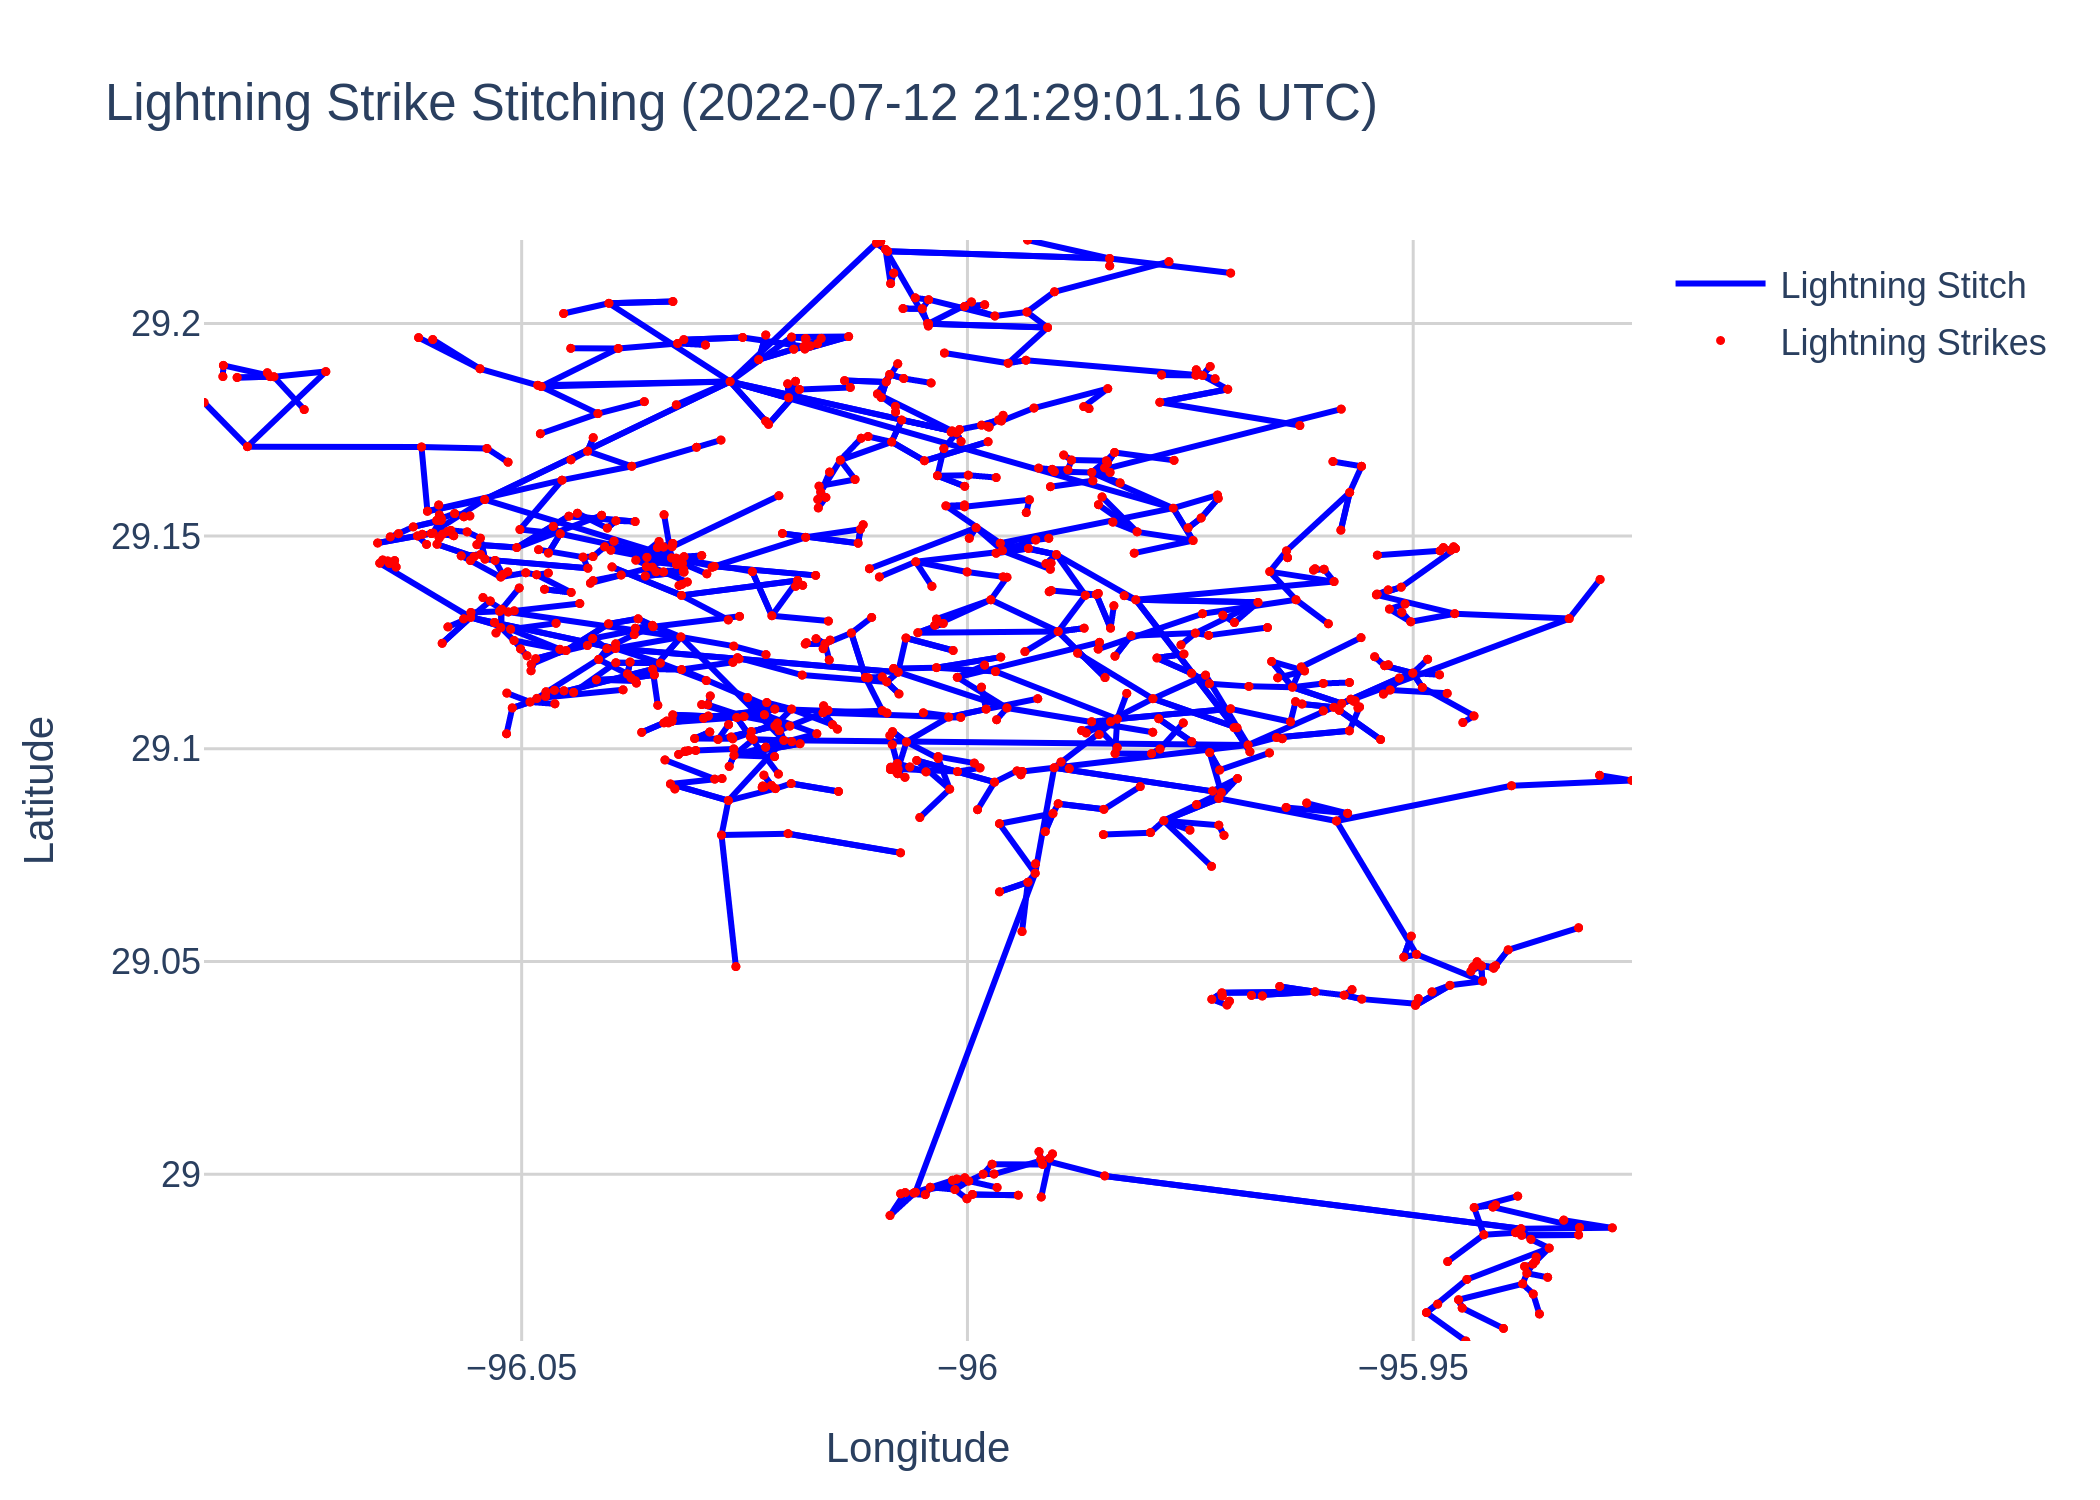
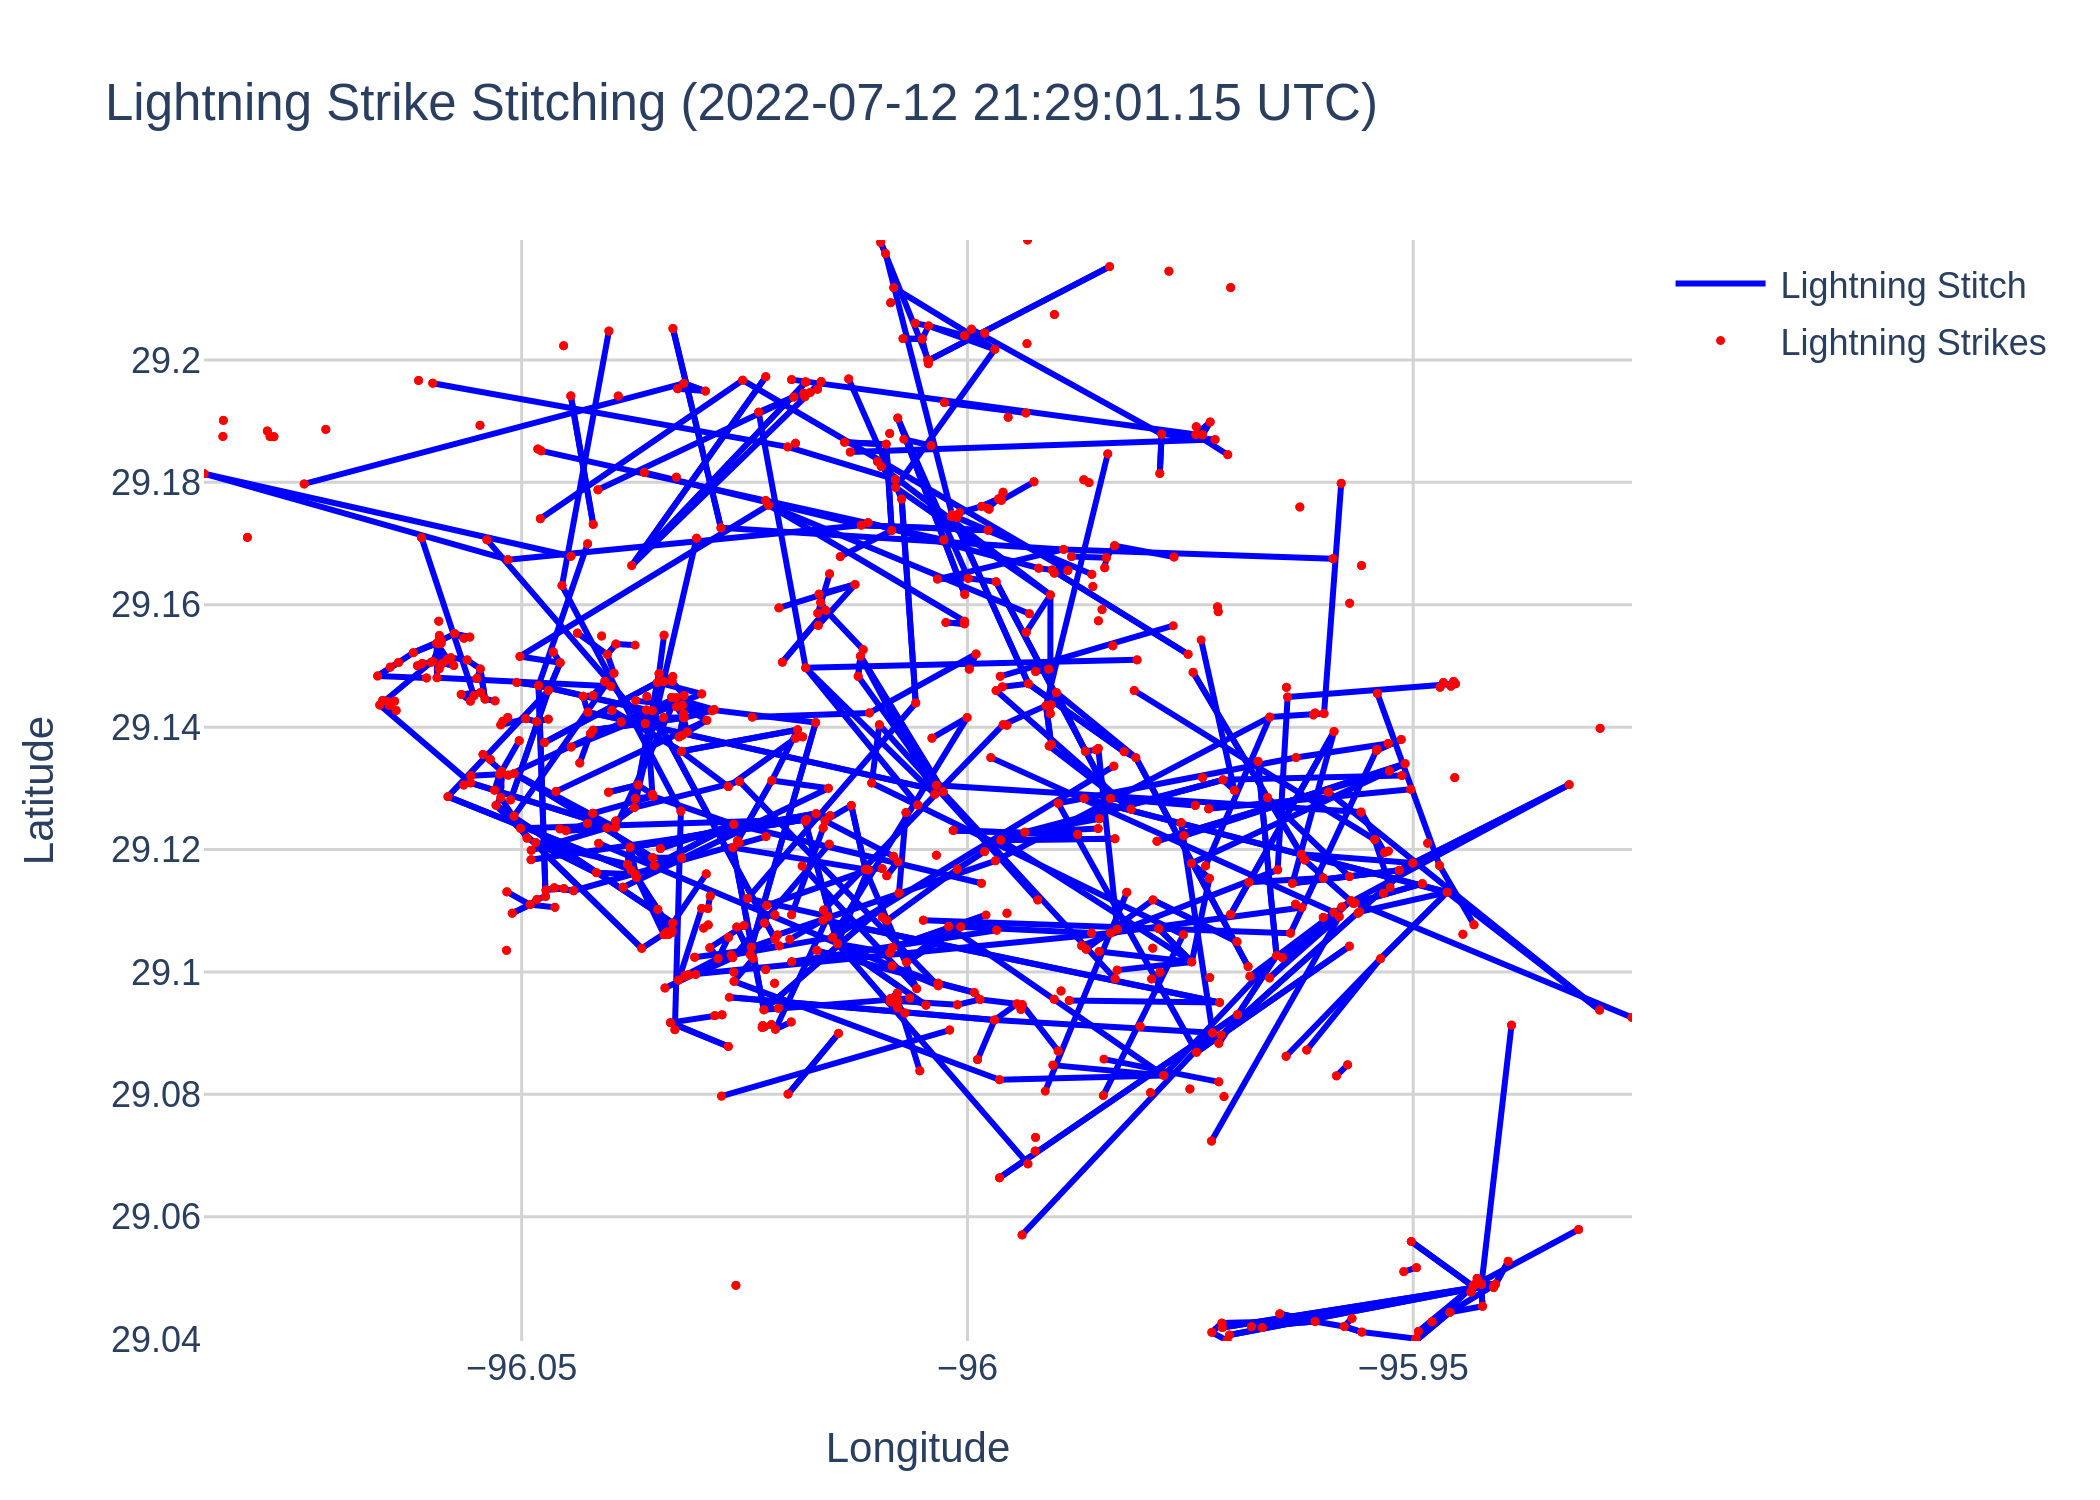
fixed max stat issue

diff --git a/lightning_stitcher.py b/lightning_stitcher.py
@@ -81,10 +81,10 @@ def stitch_lightning_strike(strike_indeces: list[int], events: pd.DataFrame, **p
             max_time_threshold_squared = max_time_threshold ** 2
 
             # Apply filtering mask using squared comparisons.
-            # (dt_squared <= max_time_threshold_squared) & 
-            mask = (distances_squared <= max_dist_squared) & (speeds_squared <= max_speed_squared) & (speeds_squared >= min_speed_squared)
-
-            # mask = (dt <= max_time_threshold) & (distances <= max_dist_between_pts) & (speeds <= max_speed) & (speeds >= min_speed)
+            mask = (distances_squared <= max_dist_squared)
+            mask &= (speeds_squared <= max_speed_squared) 
+            mask &= (speeds_squared >= min_speed_squared)
+            #mask &= (dt_squared <= max_time_threshold_squared) # Kinda uncertain if this should be added but ok
 
             valid_indices = cp.where(mask)[0]
 

diff --git a/lightning_plotters.py b/lightning_plotters.py
@@ -110,7 +110,7 @@ def plot_avg_power_map(
       str: The output filename where the heatmap image is saved.
     """
 
-    if len(strike_indices) > 0:
+    if len(strike_indices) == 0:
         return None, None
 
     strike_events = events.iloc[strike_indices]
@@ -250,7 +250,6 @@ def generate_strike_gif(
     _range = [[lat_min, lat_max], [lon_min, lon_max]]
     # Use binned_statistic_2d to compute mean power in each lat/lon bin.
 
-
     _, max_stat = plot_avg_power_map(
             sorted_indices,
             events,
@@ -263,6 +262,7 @@ def generate_strike_gif(
         )
     
     if max_stat == None: # If no data is returned
+        print("Returning???")
         return
 
     frames = []
